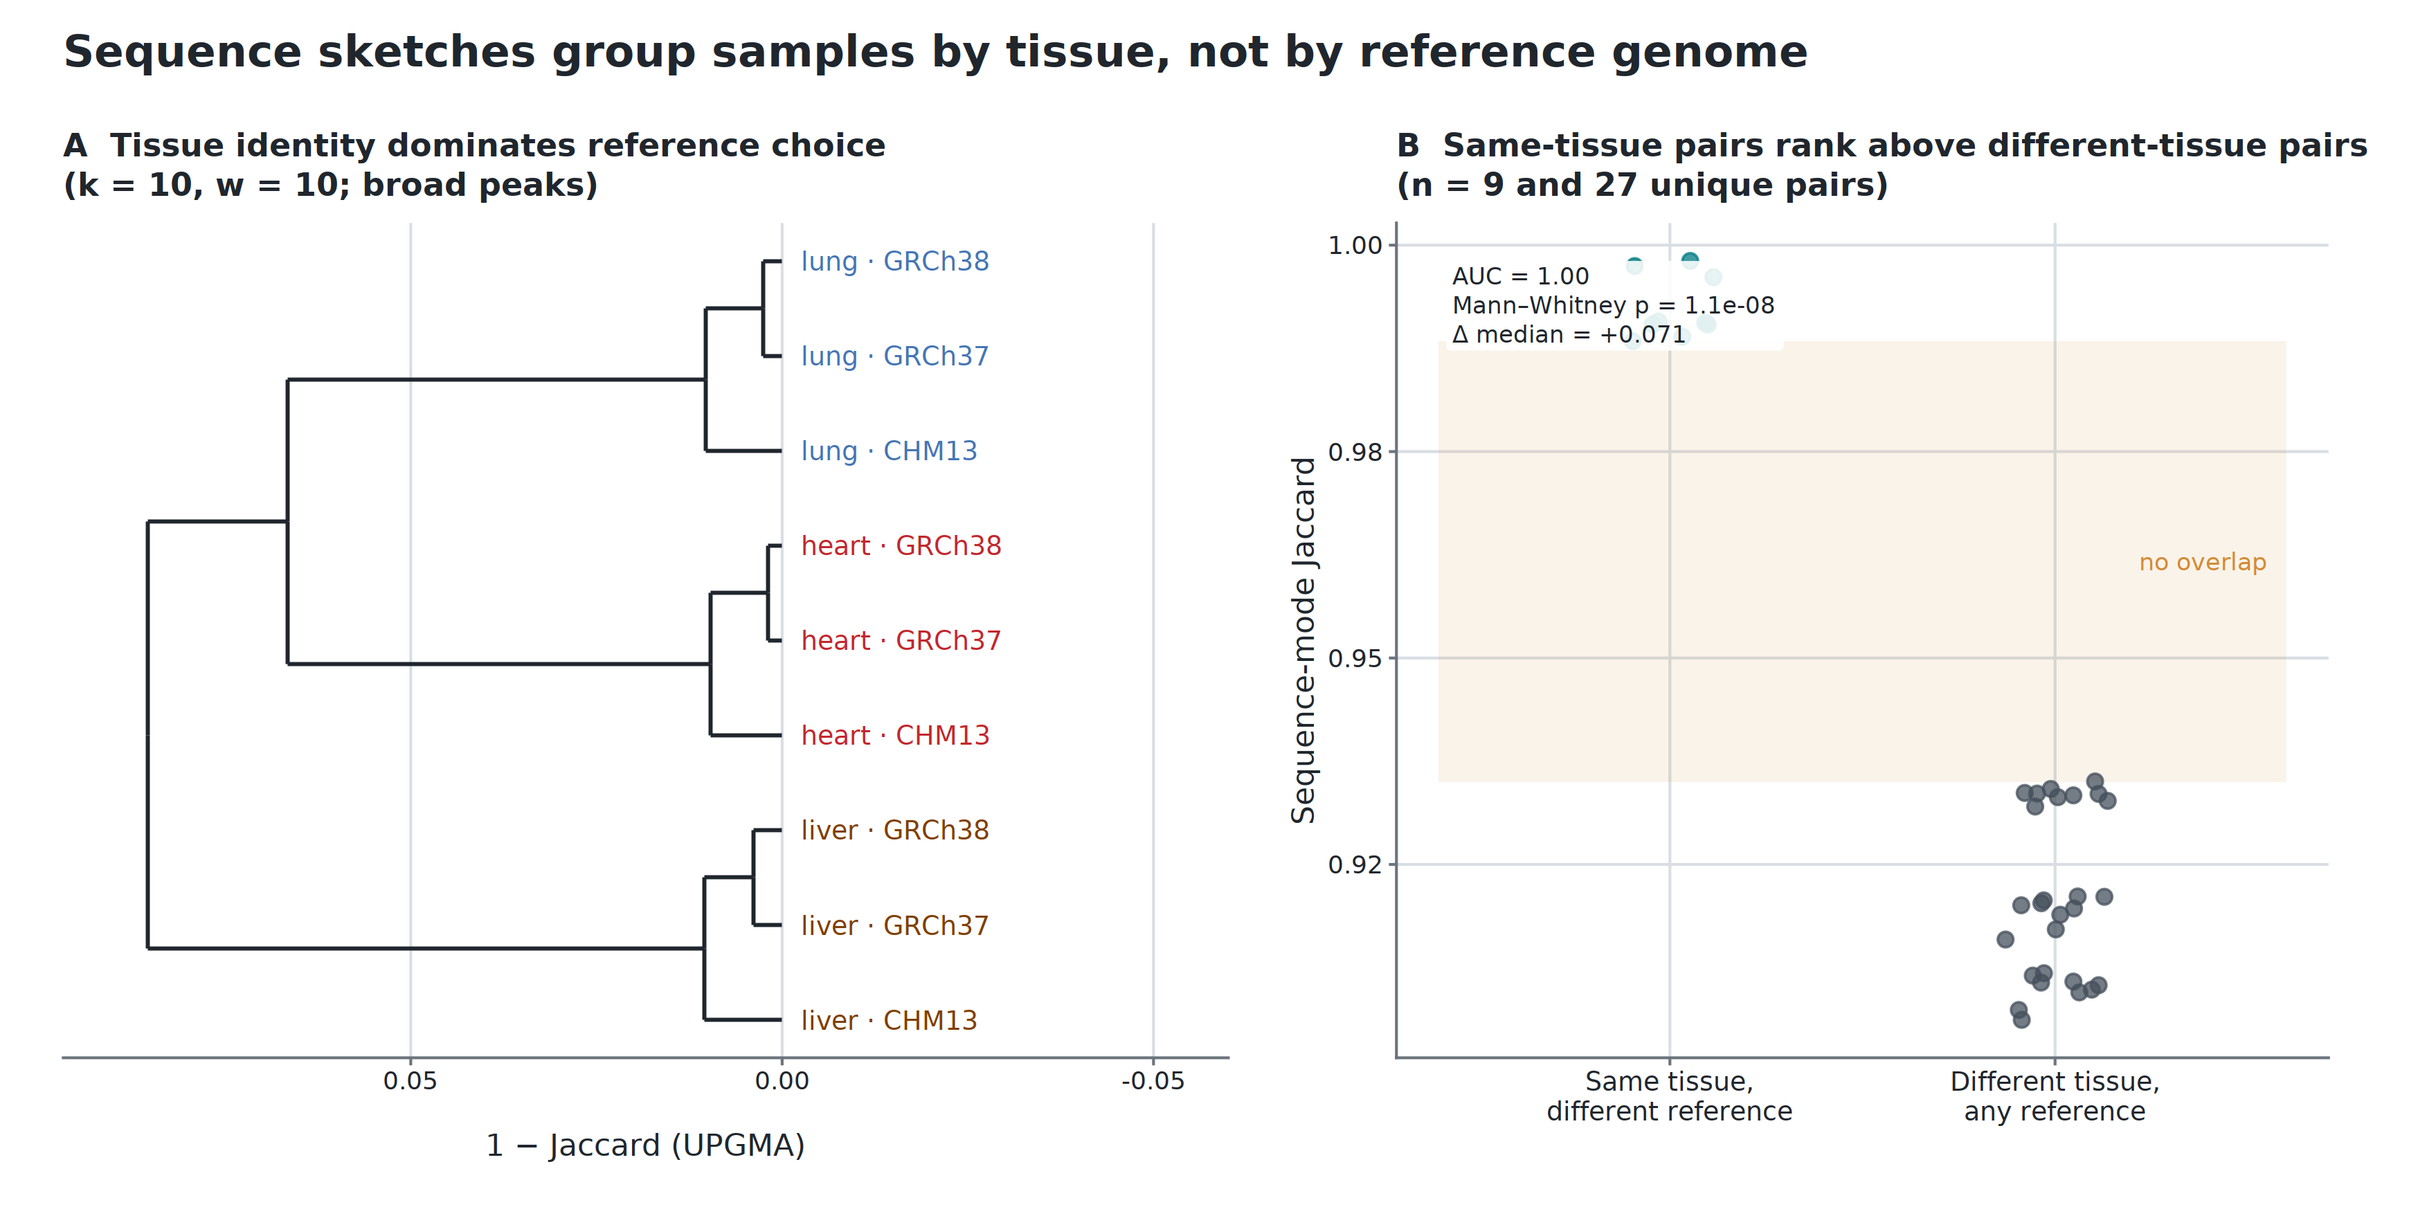
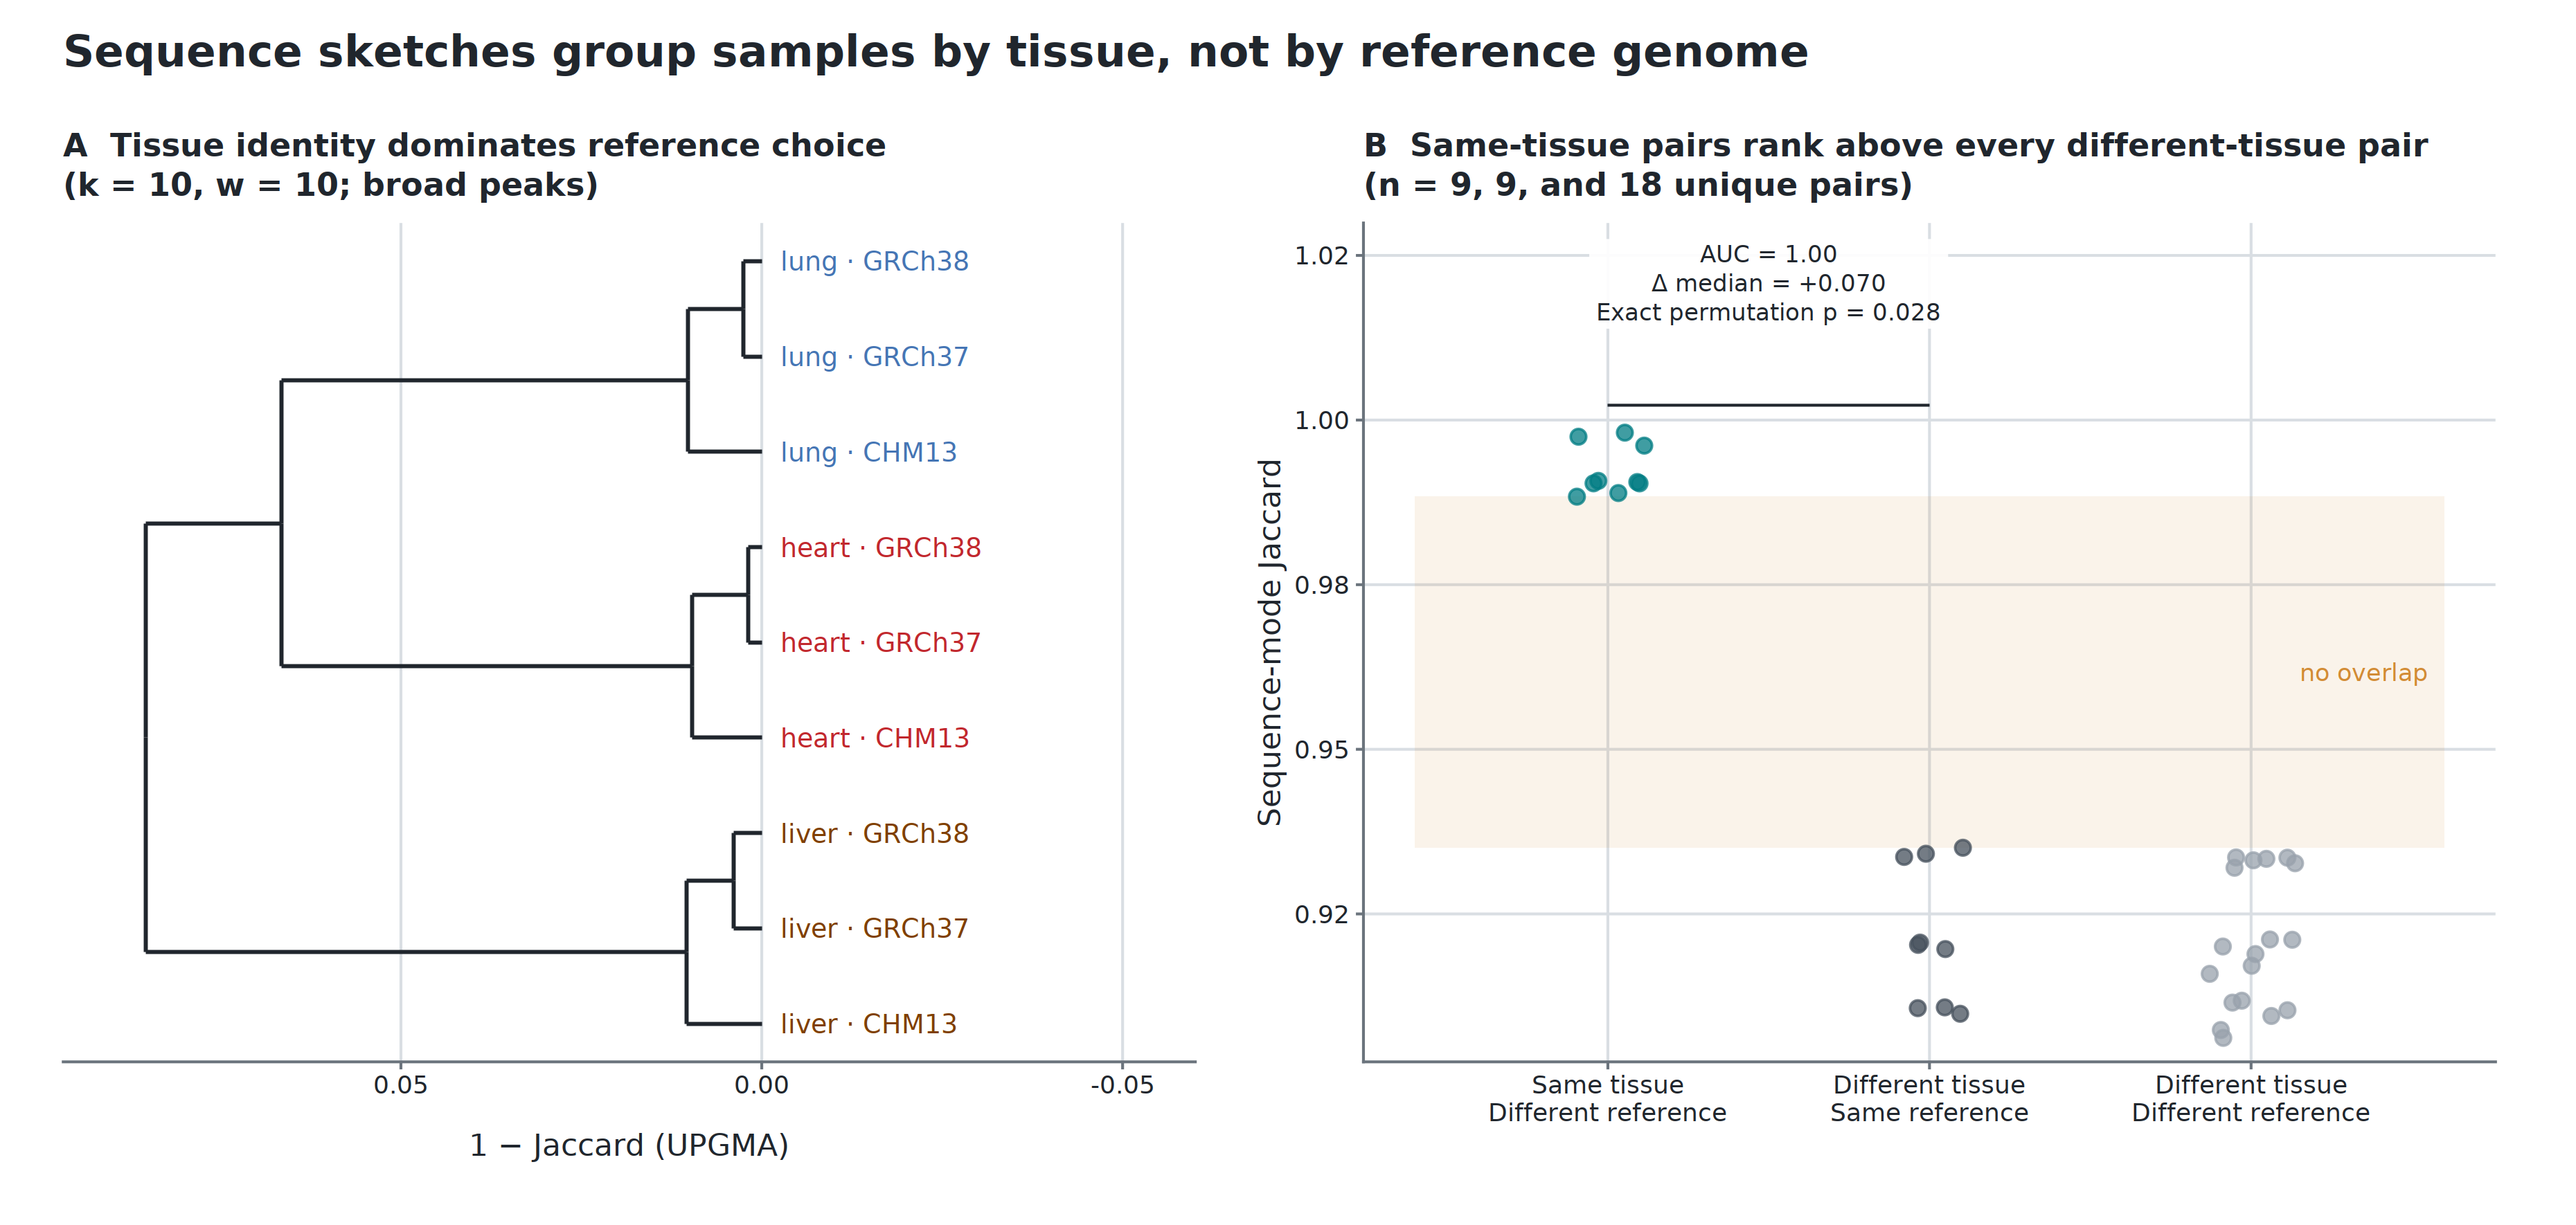
update figure 5

diff --git a/paper/outline.md b/paper/outline.md
@@ -60,9 +60,9 @@ In this study, we present \program{hammock}, a command-line tool for scalable co
 
 ![Figure 5](figures/cross_reference_identity.png)
 
-**Figure 5. Sequence sketches group samples by tissue rather than by reference genome.** Three ENCODE H3K27ac ChIP-seq samples (heart ENCSR175ABH, liver ENCSR864OOO, lung ENCSR954JMZ) were independently aligned and peak-called against GRCh37, GRCh38, and CHM13, giving nine peak sets. Each was converted to sequence against its own reference and sketched in sequence mode (\(k=10\), \(w=10\), \(p=24\); broad peaks). (A) UPGMA clustering on \(1 - J\) recovers the three tissues as clean clades, with the three references for a given tissue nesting inside that tissue's clade in every case. Reference choice therefore acts as a within-tissue perturbation rather than a between-group split, which is the property that makes cross-reference comparison meaningful. CHM13 is consistently the most distant reference within each clade, consistent with its divergence from the GRCh assemblies. (B) Distribution of pairwise similarity for the two comparison classes over the 36 unique file pairs: same tissue with different references (\(n=9\)) and different tissue with any references (\(n=27\)). Same-tissue cross-reference pairs span \(J = 0.988-0.998\) and different-tissue pairs span \(J = 0.906-0.935\), so the two classes are completely separated (AUC \(= 1.00\); one-sided Mann–Whitney \(p = 1.1 \times 10^{-8}\), the smallest value attainable at this sample size) with a median difference of \(0.071\). The separation is a margin rather than a gap in absolute terms — all nine sketches share substantial repeat-driven k-mer content, so even different-tissue similarity is high — but the ordering is unambiguous and the clustering in (A) follows from it.
+**Figure 5. Sequence sketches group samples by tissue rather than by reference genome.** Three ENCODE H3K27ac ChIP-seq samples (heart ENCSR175ABH, liver ENCSR864OOO, lung ENCSR954JMZ) were independently aligned and peak-called against GRCh37, GRCh38, and CHM13, giving nine peak sets. Each was converted to sequence against its own reference and sketched in sequence mode (\(k=10\), \(w=10\), \(p=24\); broad peaks). (A) UPGMA clustering on \(1 - J\) recovers the three tissues as clean clades, with the three references for a given tissue nesting inside that tissue's clade in every case. Reference choice therefore acts as a within-tissue perturbation rather than a between-group split, which is the property that makes cross-reference comparison meaningful. CHM13 is consistently the most distant reference within each clade, consistent with its divergence from the GRCh assemblies. (B) Distribution of pairwise similarity for the three comparison classes over the 36 unique file pairs: same tissue with different references (\(n=9\), \(J = 0.988-0.998\), median \(0.991\)), different tissue with the same reference (\(n=9\), \(J = 0.910-0.935\), median \(0.920\)), and different tissue with different references (\(n=18\), \(J = 0.906-0.934\), median \(0.919\)). Every same-tissue pair ranks above every different-tissue pair, whichever references are involved. The balanced 9-versus-9 contrast — changing the reference while holding tissue fixed, against changing the tissue while holding the reference fixed — isolates the claim that tissue dominates reference: the two classes are completely separated (AUC \(= 1.00\)) with a median difference of \(0.070\). Significance is assessed by an exact constrained label permutation rather than a rank-sum test: because the nine peak sets form a \(3 \times 3\) tissue-by-reference design, the 36 pairs are not independent observations, so we instead permute the tissue labels within each reference, which preserves the reference composition, and recompute the AUC. This gives \(p = 0.028\) over the \((3!)^3 = 216\) constrained labelings. Since a global renaming of the three tissues leaves every comparison class unchanged, those 216 labelings induce only \(216/3! = 36\) distinct classifications and \(1/36 \approx 0.028\) is the smallest attainable p-value; the observed AUC of \(1.00\) is the strict maximum over the null, whose largest value is \(0.852\). The separation is a margin rather than a gap in absolute terms — all nine sketches share substantial repeat-driven k-mer content, so even different-tissue similarity is high — but the ordering is unambiguous and the clustering in (A) follows from it.
 
-**Figure 5 generation.** The combined figure is generated by `paper/cross_reference_identity/plot_cross_reference_identity.R` and written to `paper/figures/cross_reference_identity.png`. Inputs are `docs/data/exp_a_broad_k10_w10.csv` (staged from `experiments/ref-comparison/results/exp_a/broad/k10_w10/exp_a_mnmzr_p24_jaccD_k10_w10.csv`) and `docs/data/exp_a_metadata.tsv` (staged from that experiment's `config/`); `docs/data/exp_a_narrow_k10_w10.csv` is staged alongside for the narrow-peak replicate. The script differs from the experiment's own plotting scripts in two respects: mirrored pairs are collapsed so each unordered pair is counted once, and the reported similarity is the minimizer-only Jaccard rather than the minimizer-plus-ends variant.
+**Figure 5 generation.** The combined figure is generated by `paper/cross_reference_identity/plot_cross_reference_identity.R` and written to `paper/figures/cross_reference_identity.png`. Inputs are `docs/data/exp_a_broad_k10_w10.csv` (staged from `experiments/ref-comparison/results/exp_a/broad/k10_w10/exp_a_mnmzr_p24_jaccD_k10_w10.csv`) and `docs/data/exp_a_metadata.tsv` (staged from that experiment's `config/`); `docs/data/exp_a_narrow_k10_w10.csv` is staged alongside for the narrow-peak replicate. The script differs from the experiment's own plotting scripts in three respects: mirrored pairs are collapsed so each unordered pair is counted once, the reported similarity is the minimizer-only Jaccard rather than the minimizer-plus-ends variant, and panel B's p-value comes from an exhaustive enumeration of the 216 within-reference tissue-label permutations (computed in the script, not read from a cached file) rather than from a rank-sum test over the pairs.
 
 ### 2.6 Sequence sketches recover tissue organization
 
